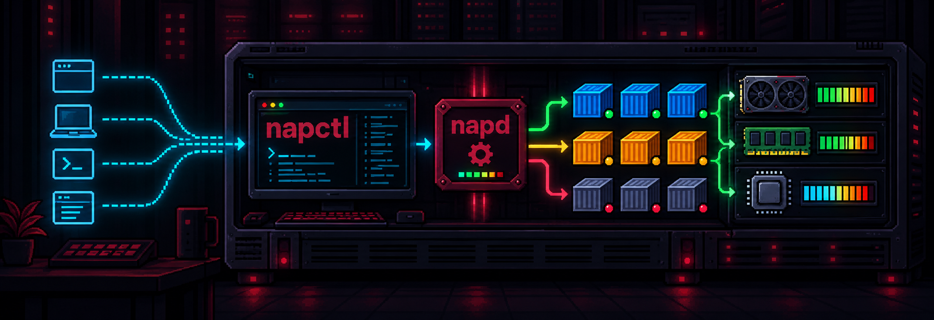
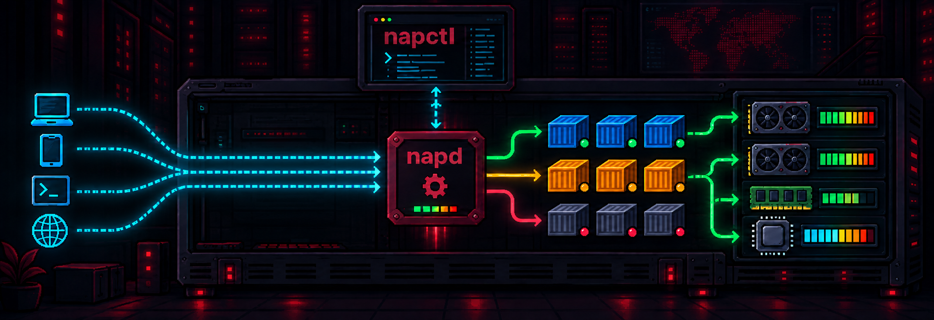
chore: readme update

diff --git a/README.md b/README.md
@@ -724,7 +724,7 @@ gateway is exposed, and how `napctl` reaches each node.
 
 ### 1. 🏠 Single Machine Without Reverse Proxy
 
-![Local gateway placeholder](./artifacts/general/img/single.png)
+![Local gateway placeholder](./artifacts/general/img/single2.png)
 
 Run both `napctl` and `napd` on one machine. Docker containers, the Nap gateway,
 and the control socket all live on the same host.
